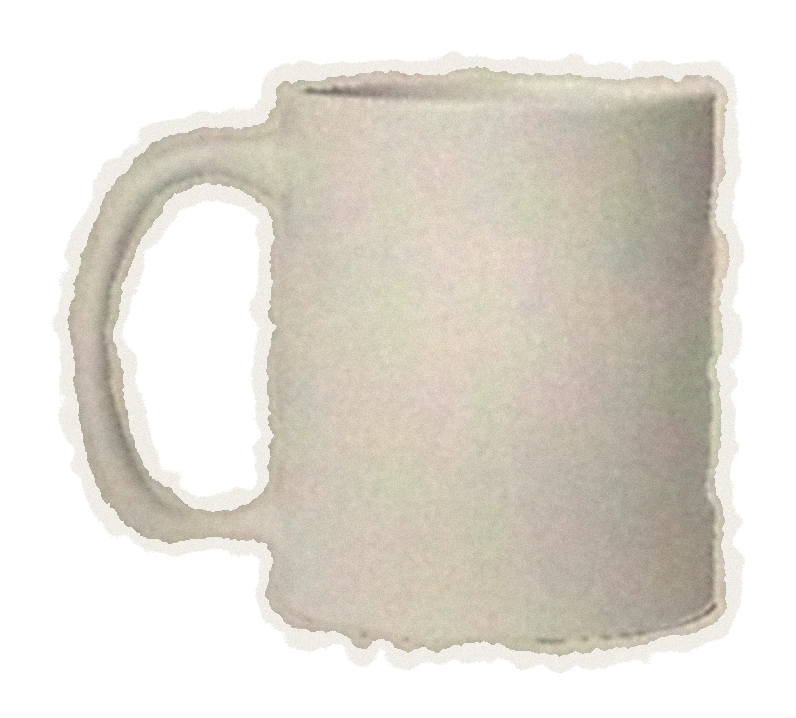
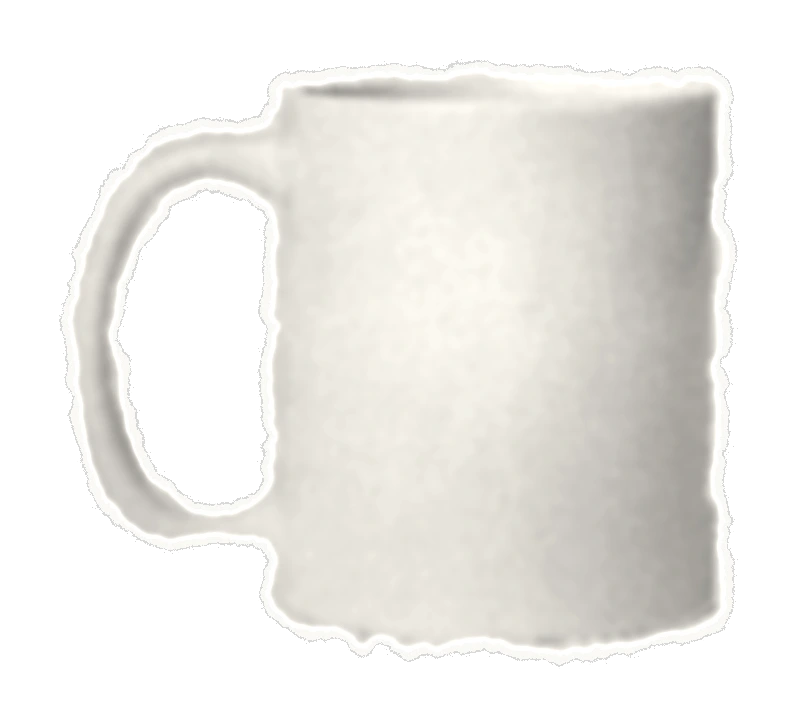
Mug: clean printed photo with a thin torn white edge; on the right side at the notebook stop (travels sideways once)

diff --git a/index.html b/index.html
@@ -2751,7 +2751,7 @@
     sketchbook: [[1820, 1010, -8],[1790, 1040, 12], [620, 55, -14],   [40, 560, 8]],
     scissors:   [[25, 400, 20],   [380, 1065, -25], [1880, 690, 30],  [960, 1065, -15]],
     marker:     [[1100, 1060, 70], [840, 55, -60],   [1320, 55, 100],  [1180, 55, -80]],
-    cup:        [[1300, 820, 6],   [1500, 1060, 8],  [400, 55, -6],    [1650, 1060, 6]]
+    cup:        [[1300, 820, 6],   [1500, 1060, 8],  [1880, 700, -6],  [1650, 1060, 6]]   // (notebook stop: on the right-hand side, so it travels sideways once, not only up and down)
   }, SPIN = { paper: 1, camera: -1, sketchbook: 1, scissors: -1, marker: 1, cup: -1 };
   const SPLIT = { sketchbook: [55, 240, 8, 75, 0], scissors: [-169, -141, 12, 35, -43] };   // (first view: the pencil down level with the phone, the scissors under the notebook)   // [dx, dy, turn, about x, about y] of the pencil / the scissors on the first view
   // the side objects sit on the page's edges, half on and half off (each centred on its nearest edge), or as much
